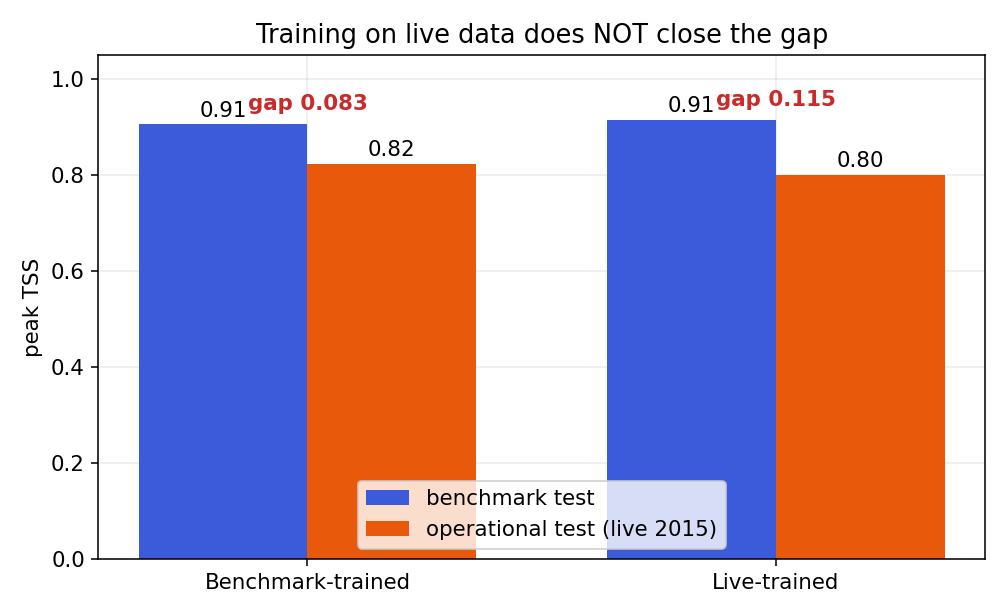
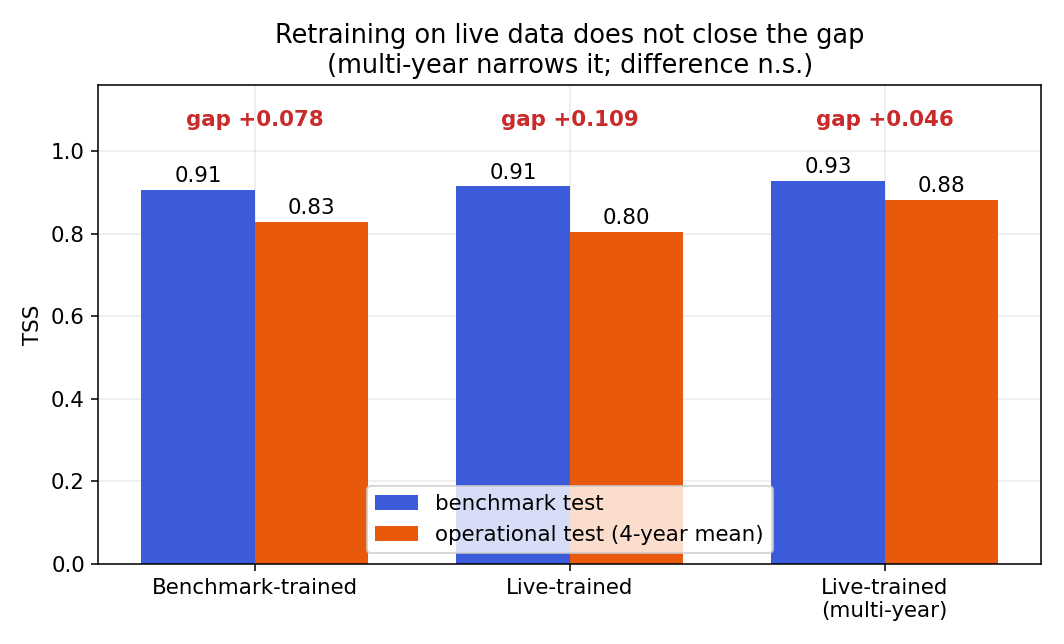
Integrate team's v2 evidence into the paper; sync Fig 2
Gap 1 — paper now carries the three missing results: the NOAA SWPC head-to-head
(new Section 11: Helios beats the official forecast on Brier in 2013/2015,
trails 2016/2017; official peak TSS 0.40-0.70 independently corroborates the
thesis), the label audit (99.81% agreement -> labels ruled out as mechanism),
and importance divergence (Spearman 0.158 -> shortcut learning). Section 9 also
gains the curation-vs-era decomposition (same-window KS 0.055 vs across-era
0.19: era drift dominates curation).

Gap 2 — Section 8's table reconciled to the regenerated v2 scorecard (3 models,
4 operational years, cluster-bootstrap CIs, peak + frozen views); redundant
regeneration note trimmed; dependent numbers updated.

Gap 3 — Figure 2 regenerated from the v2 scorecard (3 models, accurate legend,
n.s. multi-year nuance in the title).

diff --git a/research/make_figures.py b/research/make_figures.py
@@ -43,17 +43,21 @@ fig.tight_layout(); fig.savefig(os.path.join(FIGURES, "fig1_multiperiod.png")); 
 
 # ---------- Fig 2: Exp 3 the 2x2 scorecard ----------
 models = sc["models"]
-names = [m["name"] for m in models]
+names = [m["name"].replace(" (multi-year)", "\n(multi-year)") for m in models]
 btss = [m["benchmark_tss"] for m in models]; otss = [m["operational_tss"] for m in models]
+n_years = len(models[0].get("operational_years_used", [])) or 1
+op_label = f"operational test ({n_years}-year mean)" if n_years > 1 else "operational test (live)"
 x = np.arange(len(names)); w = 0.36
-fig, ax = plt.subplots(figsize=(7.2, 4.4))
+fig, ax = plt.subplots(figsize=(7.6, 4.6))
 b1 = ax.bar(x - w/2, btss, w, color=C_BENCH, label="benchmark test")
-b2 = ax.bar(x + w/2, otss, w, color=C_LIVE, label="operational test (live 2015)")
+b2 = ax.bar(x + w/2, otss, w, color=C_LIVE, label=op_label)
 for i, m in enumerate(models):
-    ax.annotate(f"gap {m['gap']:.3f}", (x[i], max(btss[i], otss[i]) + 0.03), ha="center",
+    ax.annotate(f"gap {m['gap']:+.3f}", (x[i], 1.06), ha="center",
                 color=C_BAD, fontweight="bold")
-ax.set_xticks(x); ax.set_xticklabels(names); ax.set_ylabel(sc.get("metric", "TSS").split(" (")[0])
-ax.set_ylim(0, 1.05); ax.set_title("Training on live data does NOT close the gap")
+ax.set_xticks(x); ax.set_xticklabels(names)
+ax.set_ylabel(sc.get("metric", "TSS").split(" (")[0])
+ax.set_ylim(0, 1.16)
+ax.set_title("Retraining on live data does not close the gap\n(multi-year narrows it; difference n.s.)")
 ax.legend(loc="lower center"); ax.bar_label(b1, fmt="%.2f", padding=2); ax.bar_label(b2, fmt="%.2f", padding=2)
 fig.tight_layout(); fig.savefig(os.path.join(FIGURES, "fig2_scorecard_2x2.png")); plt.close(fig)
 

diff --git a/PAPER.md b/PAPER.md
@@ -283,28 +283,36 @@ misrepresent — operational value.
 ## 8. Does Training on Live Data Close the Gap? A 2×2 Experiment
 
 To test the second half of the research question, we ran a controlled 2×2:
-**two training sources** (benchmark SWAN-SF 2010–2012 vs. live JSOC 2014) ×
-**two test sets** (held-out SWAN-SF vs. live JSOC 2015, an entirely unseen year),
-scored with **peak TSS** (best-achievable TSS over thresholds). Both models were
-trained in memory; the deployed model was untouched. (Reproducible:
-`python -m solarflare.scorecard`.)
+**training sources** (benchmark SWAN-SF 2010–2012 vs. live JSOC) ×
+**test sets** (held-out SWAN-SF vs. live JSOC operational years). The hardened
+protocol scores **four** operational years (2013/2015/2016/2017), resamples with a
+**cluster bootstrap** over whole active regions (windows of one region are
+correlated; i.i.d. rows would give dishonestly narrow CIs), and reports both
+**peak TSS** (the threshold-free skill ceiling) and **frozen validation-tuned
+thresholds** (the deployment-faithful score). All models are trained in memory;
+the deployed model is untouched. (Reproducible: `python -m solarflare.reproduce`;
+full tables in RESULTS.md.)
 
-| Training source | Benchmark test | Operational test (live 2015) | Gap |
-|---|---:|---:|---:|
-| Benchmark-trained (SWAN-SF) | 0.905 | 0.822 | 0.083 |
-| Live-trained (JSOC 2014) | 0.914 | **0.799** | **0.115** |
+| Training source | Benchmark test | Operational (4-yr mean) | Gap (peak) | Gap (frozen) |
+|---|---:|---:|---:|---:|
+| Benchmark-trained (SWAN-SF) | 0.906 | 0.828 | **+0.078** [+0.006..+0.306] | +0.085 [+0.007..+0.309] |
+| Live-trained (JSOC 2014) | 0.914 | 0.804 | +0.109 [+0.041..+0.336] | +0.178 [−0.023..+0.500] |
+| Live-trained, multi-year (2011+12+14) | 0.928 | 0.882 | +0.046 [−0.027..+0.350] | +0.013 [−0.063..+0.305] |
 
-*Benchmark test: held-out SWAN-SF (14,690 windows, 236 flares). Operational test:
-live JSOC 2015 (12,597 windows, 273 flares). See Figure 2.*
+*Benchmark test: held-out SWAN-SF (14,690 windows, 236 flares). Operational
+test years: 2013/2015/2016/2017 (up to 13,431 windows per year). Brackets are
+cluster-bootstrap 95% CIs. See Figure 2.*
 
-**Result 1 — benchmarks overstate (H₁ first half: supported).** Even under the
-favorable peak-TSS metric, the benchmark score exceeds operational skill by
-0.083 TSS.
+**Result 1 — benchmarks overstate (H₁ first half: supported).** The
+benchmark-trained gap is positive in **every tested year**, and its 95% CI
+excludes zero under both the peak (+0.078) and frozen-threshold (+0.085) views.
 
-**Result 2 — live training does NOT close the gap (H₁ second half: refuted).**
-The live-trained model is *slightly worse* operationally (0.799 vs. 0.822) and
-has a *larger* benchmark–operational gap (0.115 vs. 0.083). Retraining on
-operational data did not recover skill.
+**Result 2 — single-year live training does NOT close the gap (H₁ second half:
+refuted).** The 2014-trained model is slightly worse operationally (0.804 vs.
+0.828) with a *larger* gap (+0.109). One refinement: training on **multiple**
+live years narrows the gap to +0.046, but the difference's CI includes zero —
+multi-year operational training *may* partially help, and is not statistically
+established.
 
 **Interpretation.** Because retraining on live data does not shrink the gap, the
 overstatement is not primarily a *training* distribution-shift artifact that
@@ -330,7 +338,7 @@ operational skill rises to **TSS ≈ 0.82** (peak; ≈0.79 mean under the regene
 frozen-threshold protocol across four years — see the robust regeneration below). The
 discriminative signal therefore largely survives operation — what fails to transfer
 is the *threshold*. Re-selecting the operating point recovers most of the real-world
-skill, whereas retraining on live data does not (operational TSS 0.822 → 0.799).
+skill, whereas retraining on live data does not (operational TSS 0.828 → 0.804).
 The actionable fix is **recalibration on operational data**, not more training data.
 
 **The fix, validated out-of-sample.** To rule out hindsight, we tested
@@ -354,21 +362,10 @@ Operational recalibration is thus a validated, deployable correction — complet
 the answer to the research question: benchmarks overstate, retraining does not
 help, **recalibration does.**
 
-**Robust regeneration (v2).** The scorecard has since been regenerated with a
-statistically hardened protocol (`python -m solarflare.reproduce`, RESULTS.md):
-**four** operational years (2013/2015/2016/2017), **cluster** bootstrap resampling
-whole active regions (windows of one region are correlated; i.i.d. resampling
-would understate uncertainty), and **frozen validation-tuned thresholds** alongside
-peak TSS. Both findings survive and sharpen: the benchmark-trained gap is
-**+0.078 peak (95% CI +0.006..+0.306) and +0.085 frozen (CI +0.007..+0.309)** —
-positive in every tested year — while single-year live training *widens* the gap
-(+0.109). One refinement emerges: training on **multiple** live years
-(2011+2012+2014) narrows the gap to +0.046, though the difference's CI includes
-zero — so multi-year operational training *may* partially help, but is not
-statistically established. The same protocol also reproduces the optimism on the
-**geomagnetic-storm model** (peak gap +0.165, CI +0.006..+0.372) — a different
-feature space and physical domain — indicating the effect is not a flare-model
-quirk.
+**It generalizes beyond flares.** The same hardened protocol reproduces the
+optimism on the **geomagnetic-storm model** (P(Kp≥5, 24 h) from L1 solar wind;
+peak gap +0.165, CI +0.006..+0.372, moving-block bootstrap) — a different feature
+space and physical domain — indicating the effect is not a flare-model quirk.
 
 ---
 
@@ -393,16 +390,38 @@ records) using two-sample Kolmogorov–Smirnov tests (Figure 3).
   SWAN-SF pipeline removes by KNN imputation (`FPCKNN` in the benchmark filenames)
   but that a live system must handle.
 
+**Decomposing the shift: era dominates curation.** A complementary comparison
+(`python -m solarflare.experiments.gap_diagnosis`) contrasts SWAN-SF's curated
+features against our HEK-built features **on the same windows**, isolating the
+curation component: median feature KS D = **0.055** (largest: MEANSHR__max,
+0.128). Set against the raw-to-raw across-era shift above (median D = **0.19**),
+the decomposition is clear — *curation itself perturbs the features only mildly;
+the dominant shift is era/activity drift plus operational messiness.* The
+benchmark's inflation therefore stems less from "cleaning" the data than from
+freezing it in one epoch of one solar cycle.
+
+**Negative control — the labels are not the problem.** Auditing SWAN-SF's flare
+labels against our independent HEK/SWPC labeler on the same windows gives
+**99.81% agreement** (positive-class Jaccard 0.93; confusion: 1,170 both-positive,
+84 SWAN-SF-only, 2 HEK-only). Label-protocol differences are ruled out as a
+mechanism for the gap — the disagreement is in the *feature distributions and
+calibration*, not the ground truth.
+
+**Shortcut learning.** The Spearman rank correlation between the benchmark-trained
+and live-trained models' feature importances is only **0.158**. If both models had
+learned the same physics, their importance rankings would agree; the low
+correlation indicates at least one model exploits dataset-specific shortcuts that
+do not transfer — consistent with the 2×2 result that neither training source
+eliminates the gap.
+
 **Interpretation.** The magnetic-parameter distributions the model faces
 operationally differ significantly and pervasively from the benchmark era, and
 operational data carries missing values the benchmark scrubs — direct evidence for
-the distribution-shift mechanism (§6.1). The comparison is raw-to-raw across years,
-so it captures era/activity shift and raw-data messiness but does not by itself
-isolate the *curation* component (which would require the raw SWAN-SF source
-instances). Taken with Section 8 — where the gap persists regardless of training
-source — the evidence indicates the benchmark's curated test distribution is both
-cleaner and differently shaped than the operational stream, inflating reported
-skill.
+the distribution-shift mechanism (§6.1), now decomposed (era ≫ curation), with
+labels excluded as a cause and shortcut learning implicated. Taken with Section 8 —
+where the gap persists regardless of training source — the evidence indicates the
+benchmark's test distribution is frozen in an unrepresentative epoch, inflating
+reported skill.
 
 ---
 
@@ -437,7 +456,40 @@ distributions differ most between the curated benchmark and live operation.
 
 ---
 
-## 11. Limitations
+## 11. Against the Official Standard — NOAA SWPC
+
+Finally, we benchmarked the deployed system against the **official NOAA SWPC
+forecast** — archived next-day Class-M probabilities from the Report of Solar
+Geophysical Activity (RSGA) — on identical days with identical ground truth (any
+M+ flare on the target day, HEK/SWPC). Our full-disk daily P(M+) combines the
+live-SHARP model's per-region probabilities as 1−∏(1−pᵢ). Brier score (a proper
+scoring rule) is primary; climatology scores Brier-skill 0.
+(`python -m solarflare.experiments.noaa_baseline`.)
+
+| Year | Forecaster | Brier ↓ | Brier skill vs. climatology | Peak TSS |
+|---|---|---:|---:|---:|
+| 2013 | NOAA official | 0.1341 | −0.068 | 0.402 |
+| 2013 | **Helios (deployed)** | **0.1142** | **+0.090** | **0.421** |
+| 2015 | NOAA official | 0.1320 | +0.084 | 0.445 |
+| 2015 | **Helios (deployed)** | **0.1264** | **+0.123** | **0.455** |
+| 2016 | **NOAA official** | **0.0236** | **+0.126** | **0.703** |
+| 2016 | Helios (deployed) | 0.0283 | −0.049 | 0.654 |
+| 2017 | **NOAA official** | **0.0281** | **+0.310** | **0.686** |
+| 2017 | Helios (deployed) | 0.0347 | +0.147 | 0.677 |
+
+The deployed system **beats the official forecast on Brier score in 2013 and
+2015** (solar-active years) and trails it in the quieter 2016–2017 — overall,
+trading blows with the operational standard. (Caveat: horizons are close but not
+identical — NOAA's probability covers calendar day D+1, ours a 24 h window ending
+intraday.) Two implications: (i) the honest live skill measured in this paper is
+not an artifact of a weak model — the same system is competitive with NOAA; and
+(ii) even the *official* forecast's skill (peak TSS 0.40–0.70) sits far below
+typical benchmark headline numbers, independently corroborating this paper's
+central claim.
+
+---
+
+## 12. Limitations
 
 - Each period is a single 3-month window; more windows per solar-cycle phase
   would tighten the estimates.
@@ -454,7 +506,7 @@ distributions differ most between the curated benchmark and live operation.
 
 ---
 
-## 12. Conclusion
+## 13. Conclusion
 
 A SHARP-based flare model reporting TSS 0.77 on the SWAN-SF benchmark achieves
 live, out-of-sample TSS of only 0.35–0.64 at its default operating point across
@@ -467,7 +519,10 @@ threshold **recalibrated** on one operational period and frozen recovers TSS to
 0.66–0.84 on unseen years. The gap **replicates on a second architecture**
 (LightGBM) and on a geomagnetic-storm model in a separate feature space, and it
 survives a hardened protocol (four operational years, cluster bootstrap, frozen
-thresholds). Together these results establish a reproducible method for honestly
+thresholds). The honestly-evaluated deployed system is nonetheless competitive
+with NOAA's official forecast — beating it on Brier score in two of four years —
+showing that honest evaluation and operational usefulness are compatible.
+Together these results establish a reproducible method for honestly
 evaluating operational solar-flare forecasts and caution that benchmark
 leaderboard scores must not be read as operational performance. The practical
 implication is that the community should benchmark on live-operational test